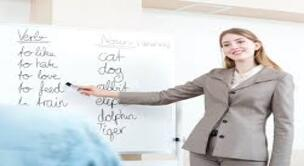
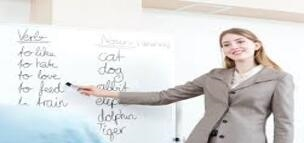
Add files via upload

diff --git a/Porfoli-Rosana Fernandez/index.html b/Porfoli-Rosana Fernandez/index.html
@@ -21,22 +21,22 @@
             <img src="./img/rosana-fernandez-high-resolution-logo-black-transparent.png">
 
         </div>
-        <button class="desplegable">
+        <button id="rosi" class="desplegable">
             <span class="hamburguer"></span>
         </button>
-        <nav class="menu">
+        <nav id="hola" class="menu">
             <ul class="menu-lista">
                 <li class="menu-item">
-                    <a href="#intro" class="menu-link">Rosana Fernandez</a>
+                    <a href="#intro" class="menu-link" id="b1" >Rosana Fernandez </a>
                 </li>
                 <li class="menu-item">
-                    <a href="#serveis" class="menu-link">Serveis </a>
+                    <a href="#serveis" class="menu-link" id="b2">Serveis </a>
                 </li>
                 <li class="menu-item">
-                    <a href="#" class="menu-link"> About</a>
+                    <a href="#" class="menu-link" id="b3"> About</a>
                 </li>
                 <li class="menu-item" > 
-                    <a href="#" class="menu-link">Els meus treballs </a>
+                    <a href="#" class="menu-link" id="b4">Els meus treballs </a>
                 </li>
             </ul>
         </nav>
@@ -87,10 +87,10 @@
         <p class="subtítol subtitol-treballs">Les meves webs</p>
         <div class="porfoli">
             <a href="#" class="porfoli-object">
-            <img src="./ThinkstockPhotos-nueva(1).jpg /" class="porfoli-img"> 
+            <img src="./tfhnj.jpg"  class="porfoli-img"> 
         </a>
             <a href="#" class="porfoli-object">
-            <img src="./tfhnj - còpia.jpg"  class="porfoli-img">
+            <img src="./4ce26959-f105-4b60-a5f3-ca9045cc530e - còpia.png"  class="porfoli-img">
         </a>
 
             <a href="#" class="porfoli-object">
@@ -130,6 +130,18 @@
 <script>
     document.getElementById("hola").addEventListener("click", function(){
         document.getElementById("m").classList.add("rosana");
+    })
+    document.getElementById("b1").addEventListener("click", function(){
+        document.getElementById("rosi").classList.remove("rosana");
+    })
+    document.getElementById("b2").addEventListener("click", function(){
+        document.getElementById("rosi").classList.remove("rosana");
+    })
+    document.getElementById("b3").addEventListener("click", function(){
+        document.getElementById("rosi").classList.remove("rosana");
+    })
+    document.getElementById("b4").addEventListener("click", function(){
+        document.getElementById("rosi").classList.remove("rosana");
     })
 </script>
 

diff --git a/Porfoli-Rosana Fernandez/css/style.css b/Porfoli-Rosana Fernandez/css/style.css
@@ -376,11 +376,13 @@ font-size: var(--tamany-h2);
 .hamburguer{
     display: block;
     position: fixed;
+    right: 1em;
+    top: 3em;
 }
 
-.hamburger,
-.hamburger::after,
-.hamburger::before{
+.hamburguer,
+.hamburguer::after,
+.hamburguer::before{
     background-color: var(--colorFosc);
     width: 2em;
     height: 6px;
@@ -388,17 +390,17 @@ font-size: var(--tamany-h2);
     transition: tranform 250ms ease-in-out;
 }
 
-.hamburger::before,
-.hamburger::after{
+.hamburguer::before,
+.hamburguer::after{
     content: '';
     position: absolute;
     left: 0;
     right: 0;
 }
 
-.hamburger::after {top: 12px;}
+.hamburguer::after {top: 12px;}
 
-.hamburger::before {bottom: 12px;}
+.hamburguer::before {bottom: 12px;}
 
 .desplegable{
     padding: .5em;
